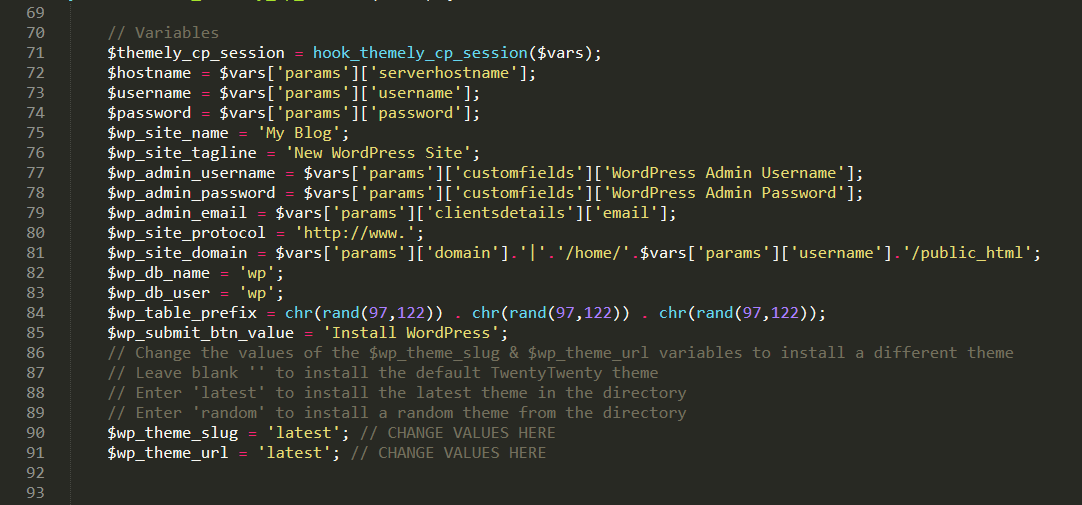
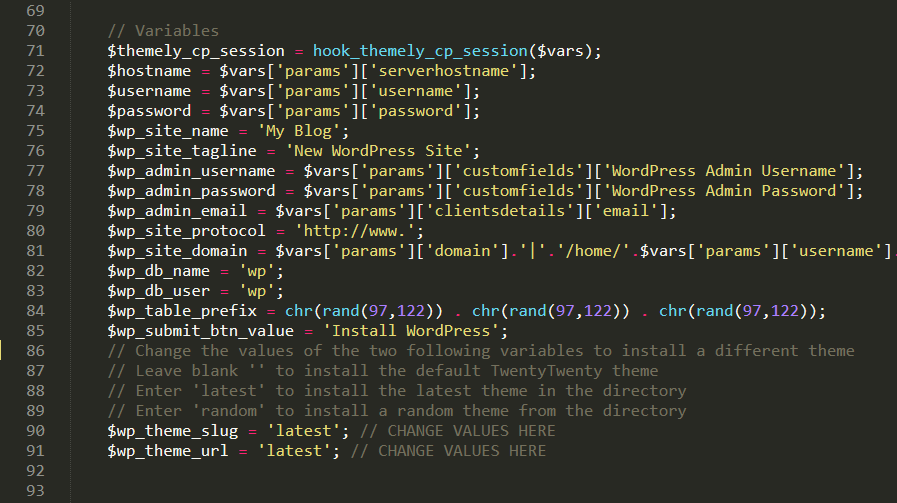
no message

Changed region(s): [[0.0936, 0.0298, 0.9989, 0.9245], [0.0, 0.0, 0.0624, 0.9841]]

diff --git a/themely.php b/themely.php
@@ -83,7 +83,7 @@ function hook_themely_wp_install($vars) {
     $wp_db_user = 'wp';
     $wp_table_prefix = chr(rand(97,122)) . chr(rand(97,122)) . chr(rand(97,122));
     $wp_submit_btn_value = 'Install WordPress';
-    // Change the values of the $wp_theme_slug & $wp_theme_url variables to install a different theme
+    // Change the values of the two following variables to install a different theme
     // Leave blank '' to install the default TwentyTwenty theme
     // Enter 'latest' to install the latest theme in the directory
     // Enter 'random' to install a random theme from the directory
